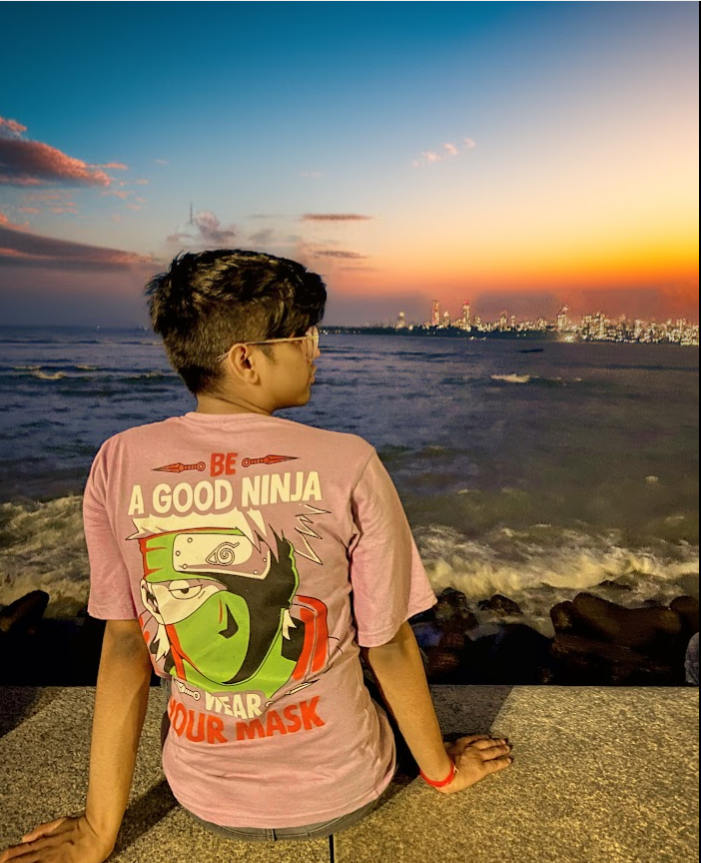
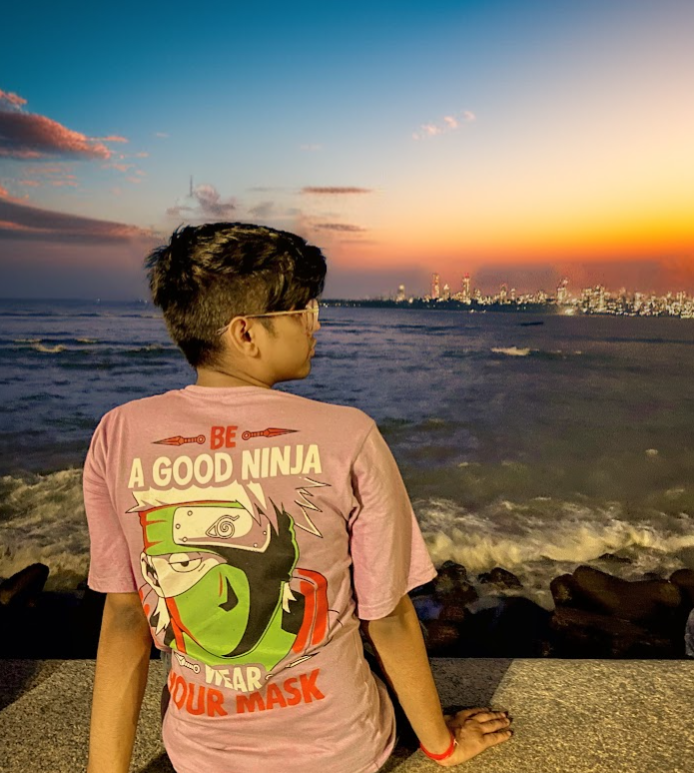
commit

diff --git a/main/src/component/Home/Home.jsx b/main/src/component/Home/Home.jsx
@@ -1,6 +1,6 @@
 import Data from "../Data.json";
 import { RiDownloadLine } from "react-icons/ri";
-import MyImage from "../../assets/mypic4.jpg";
+import MyImage from "../../assets/mypic5.png";
 import { CiLocationOn } from "react-icons/ci";
 import "./Styles/Style.css";
 
@@ -31,7 +31,7 @@ const Home = () => {
           <p>{Data.user.About}</p>
           <h1 id="#location" style={{ opacity: "0.6", fontSize: "1.5rem" }}>
             <CiLocationOn style={{ position: "relative", bottom: "-4px" }} />{" "}
-            Bihar, India
+            Mumbai, Maharashtra, India
           </h1>
         </div>
       </div>

diff --git a/main/index.html b/main/index.html
@@ -2,9 +2,9 @@
 <html lang="en">
   <head>
     <meta charset="UTF-8" />
-    <link rel="icon" type="image/svg+xml" href="/sprite2.jpg" />
+    <link rel="icon" type="image/svg+xml" href="/sprite.png" />
     <meta name="viewport" content="width=device-width, initial-scale=1.0" />
-    <title>vish.me</title>
+    <title>vi.sh</title>
   </head>
   <body>
     <div id="root"></div>

diff --git a/main/src/component/Home/Styles/About.css b/main/src/component/Home/Styles/About.css
@@ -3,6 +3,7 @@
     height: 100%;
     margin-left: 10%;
     padding-bottom: 3.9%;
+    margin-top: 15%;
 }
 
 .about h1 {
